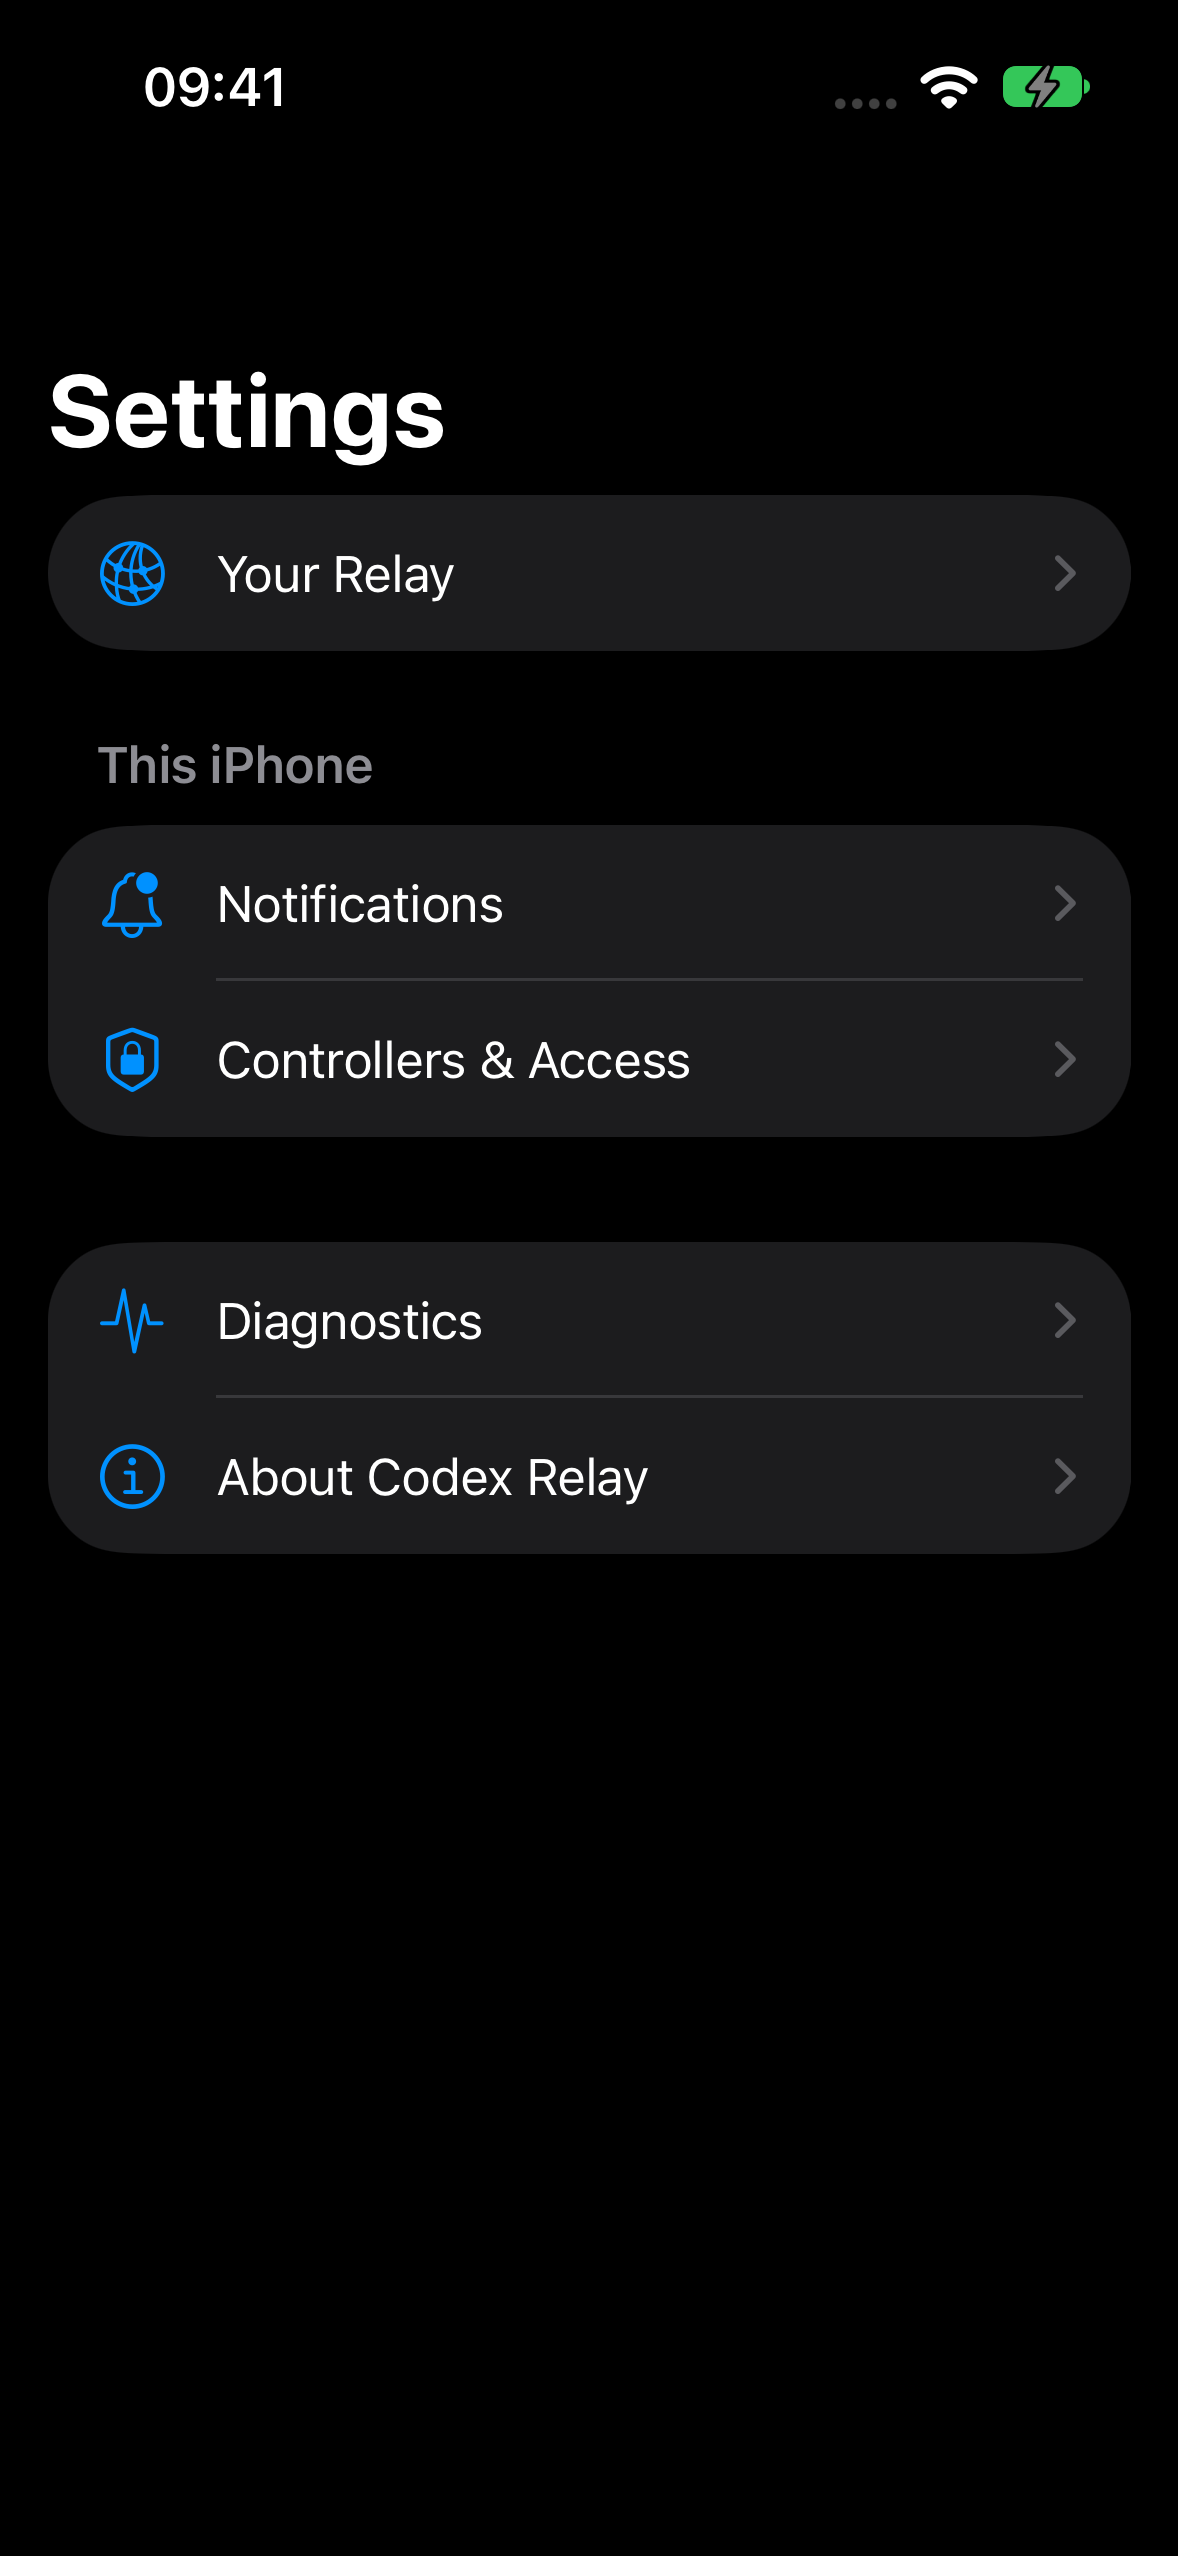
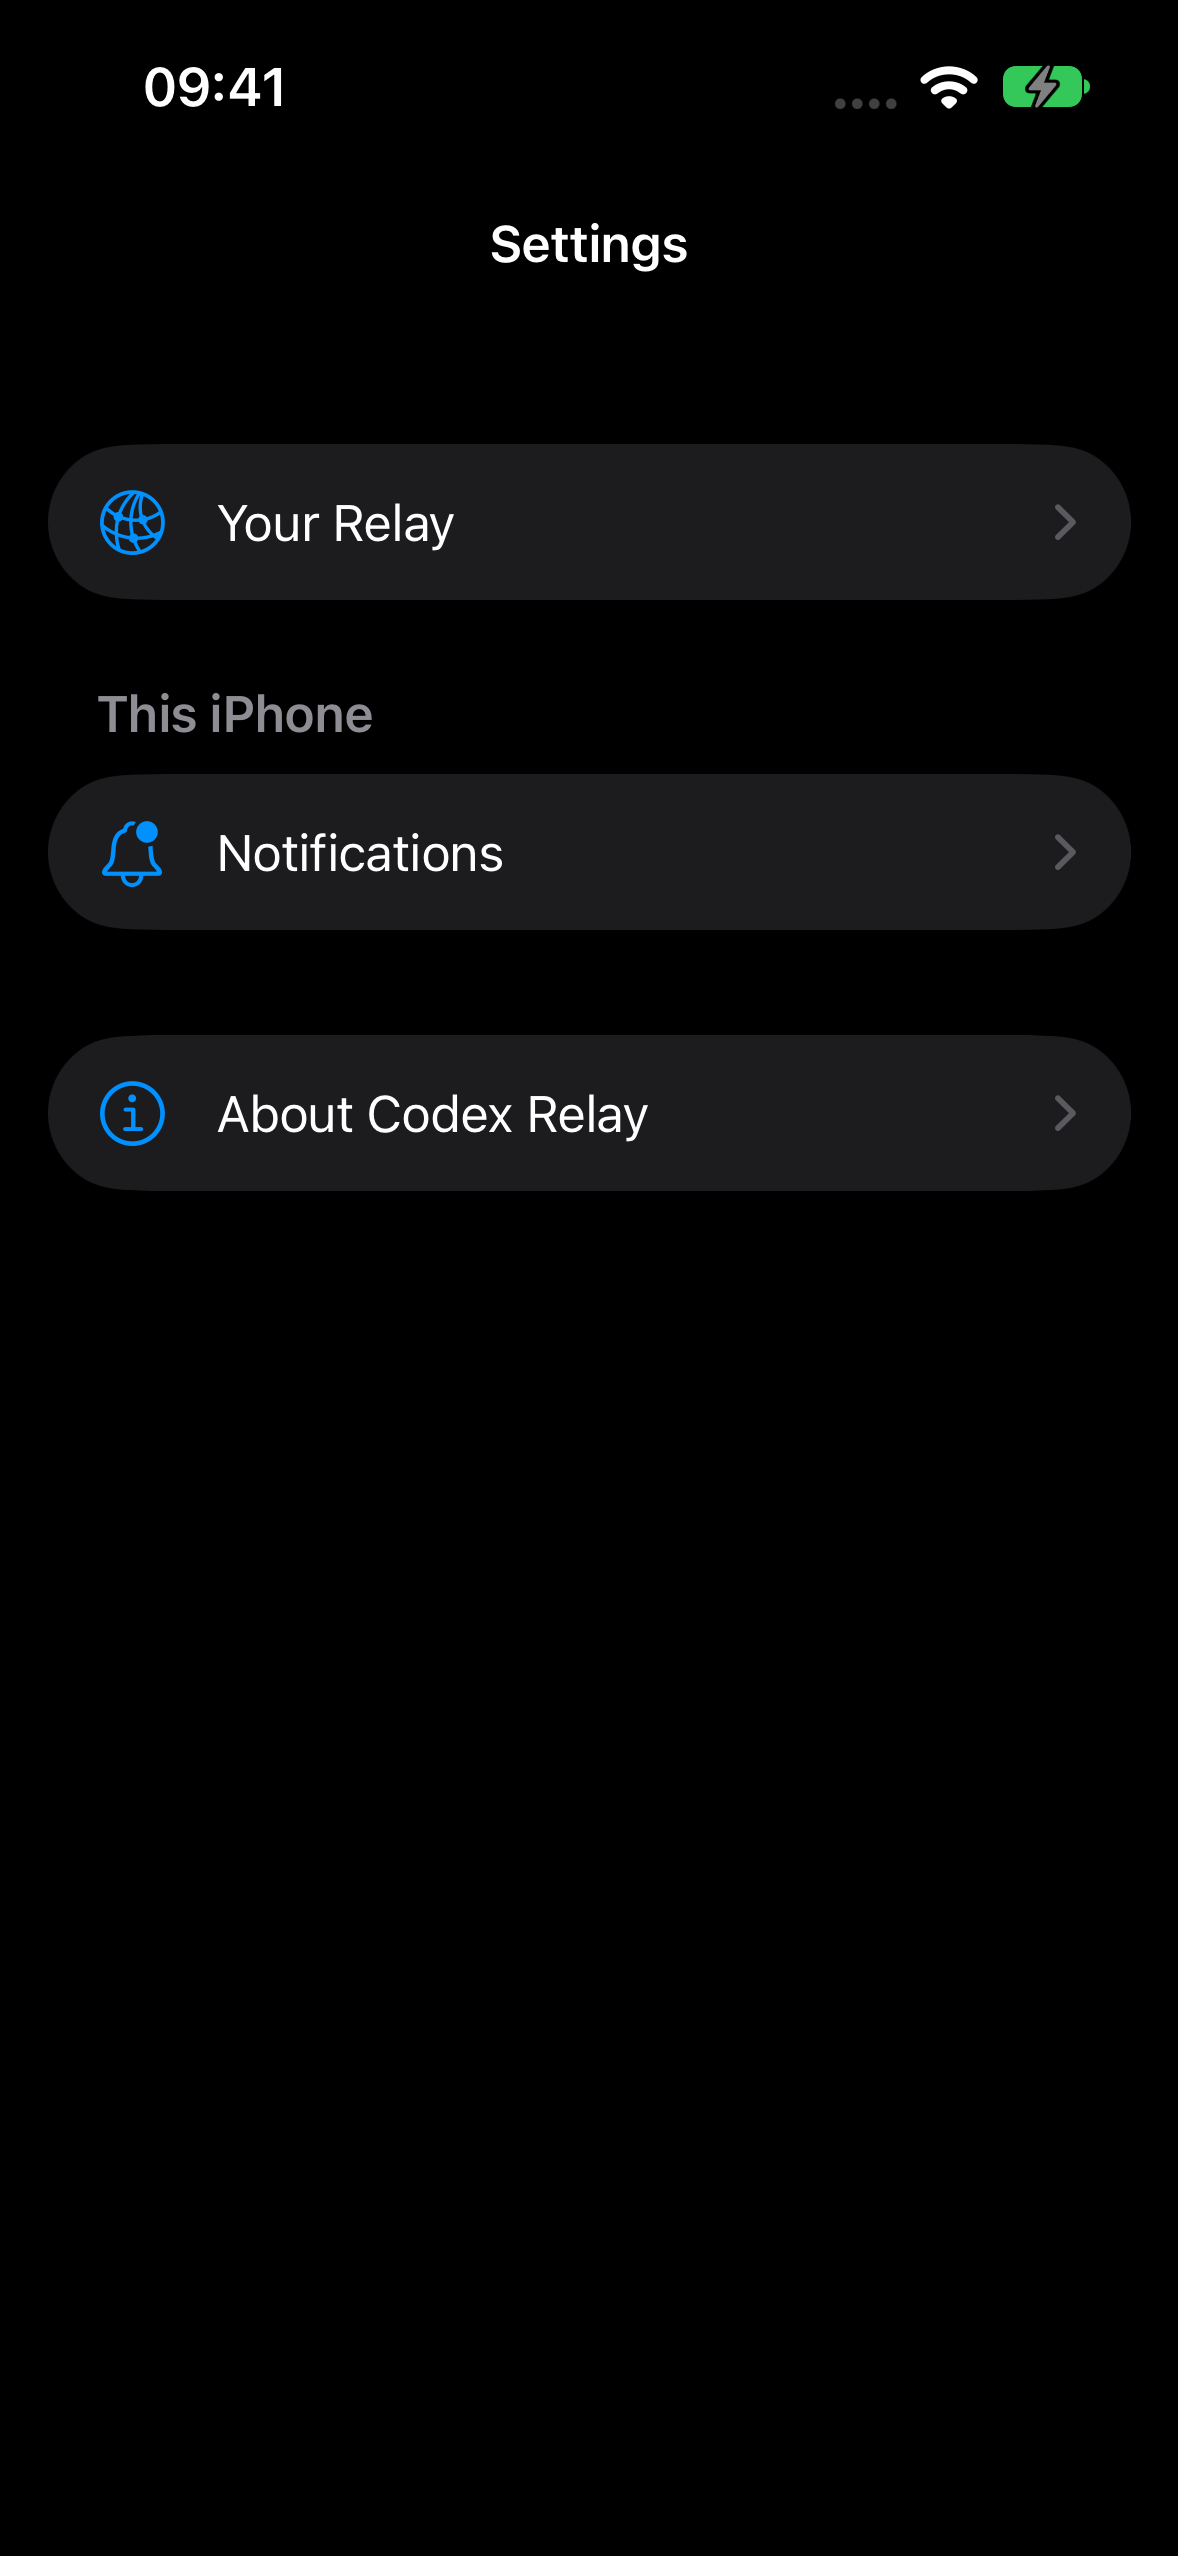
test(native): qualify final product coherence and refresh evidence

Changed region(s): [[0.0306, 0.1236, 0.9779, 0.6182], [0.4278, 0.0927, 0.5806, 0.1236]]

diff --git a/native/iOSUITests/LiveAcceptanceTests.swift b/native/iOSUITests/LiveAcceptanceTests.swift
@@ -64,7 +64,7 @@ import XCTest
         composer.tap(); composer.typeText("Mantieni il testo corrente.")
         XCTAssertTrue(send.isEnabled); XCTAssertTrue(send.isHittable)
         XCTAssertFalse(app.buttons["composer.dismissKeyboard"].exists)
-        app.scrollViews.firstMatch.swipeDown()
+        app.scrollViews["session.transcript"].swipeDown()
         let terminal = app.buttons["tool.terminal.preview-command-0"]
         for _ in 0..<25 {
             if terminal.isHittable { break }
@@ -77,7 +77,7 @@ import XCTest
         let output = app.buttons["activity.output.preview-command-0"]
         reveal(output, in: app)
         if output.value as? String == "Collapsed" { output.tap() }
-        XCTAssertTrue(app.staticTexts["activity.commandExecution.preview-command-0"].waitForExistence(timeout: 5))
+        XCTAssertTrue(app.descendants(matching: .any).matching(identifier: "activity.commandExecution.preview-command-0").firstMatch.waitForExistence(timeout: 5))
         app.buttons["Close"].tap()
         XCTAssertTrue(composer.isHittable)
         XCTAssertEqual(composer.value as? String, "Mantieni il testo corrente.")

diff --git a/docs/development/validation/m2-validation.md b/docs/development/validation/m2-validation.md
@@ -1,14 +1,14 @@
 # M2 productization validation
 
 This dated report preserves initial productization evidence. The final coherence
-pass is recorded below when qualified; [current status](../../status.md) is the
+pass is recorded in the final section below; [current status](../../status.md) is the
 canonical release and compatibility reference.
 
 Validation date: 2026-10-07. M1 remains the reliability baseline in
 [m1-validation.md](m1-validation.md). M2 remains an explicit release candidate:
 physical notification delivery has not passed.
 
-## Product and implementation
+## Initial product and implementation checkpoint
 
 The native root is Fleet / Needs You / Settings. Fleet prioritizes pending work,
 current work and a bounded recent set; an actionable machine summary opens the
@@ -178,3 +178,109 @@ the reference deployment has the explicit `+m2.3` build suffix. The tag workflow
 creates a reviewed draft release with checked artifacts, not automatic final
 publication. At this initial checkpoint, physical/Apple acceptance remained outstanding; this
 is not an implementation failure or a current release-status declaration.
+
+
+## Final product coherence pass — 2026-10-07
+
+Starting main: `7b88f79453cf6d9aedc7be3de43360981e9fc5c1`. This section supersedes
+the initial checkpoint's navigation and physical-launch observations. Reliability
+and the supported-RPC source-of-truth model remain unchanged.
+
+### Entity homes and visual acceptance
+
+The chosen root is **Fleet / Needs You**, with a native Relay administration
+sheet. It was compared with the preceding three-tab layout on iPhone 16.
+Settings contains Hub configuration, notifications and About; it does not repeat
+Machines, Accounts, Controllers or Diagnostics. Accounts link to a filtered
+canonical Machines screen. Global Diagnostics summarizes system health; machine
+measurements belong to Machine → Diagnostics. See the
+[navigation rationale](../../architecture/native-navigation.md).
+
+Fleet is quiet when infrastructure is healthy and shows an actionable exception
+when necessary. Working stays green without changing the application accent.
+The conversation keeps its reader-intent policy and heartbeat, with a compact
+jump-to-latest button. Terminal cards show current/last activity, while execution
+history and output live in detail. Inline pending questions use neutral content
+with restrained warning treatment and avoid repeated machine/project labels.
+
+Fifteen sanitized screenshots were captured using production views and visually
+reviewed: Fleet, conversation, Inbox, inline question, Terminal, tools, diff,
+Machines, Account, Settings, global Diagnostics, machine Diagnostics, Relay menu,
+pairing and [live assistant question](../../assets/app/screenshots/live-question.png).
+Visual iteration corrected a clipped Terminal header, unnecessary zero-count
+metadata, repeated question headings and singular warning copy. Public fixtures
+are visual evidence only; real-Hub acceptance is listed separately below.
+
+### Async questions and account data
+
+Installed Codex remained **0.160.1**. Supported pending RPCs remain canonical;
+historical assistant questions never create pending requests or Inbox entries.
+A bounded live-turn presentation hint preserves observed assistant questions and
+lets an option prepare a draft. It sends no Answer RPC and does not dismiss
+another client's local question. Disconnect, navigation away and turn changes
+clear the hint; transcript content remains readable. No cross-client async
+currentness guarantee is claimed.
+
+The upstream `CreditsSnapshot.balance` is an optional string without a defined
+unit or display precision. Primary UI therefore shows only supported availability
+or unlimited state; exact reported balance is under Data details, explicitly
+without an invented currency/unit. Usage windows retain protocol-defined duration
+and sparse values. Updated time is primary; source-machine provenance is advanced.
+
+### Repository and checks
+
+Apache-2.0 is consistent with the unchanged tracked LICENSE. README is edited as
+a product introduction with five selected screenshots and an expected-result
+Quick Start. The documentation portal is user-oriented. Validation/audit evidence
+moved here with links repaired; [current status](../../status.md) is the single
+release/limitations reference. Public docs were inspected for private origins,
+paths, identifiers and deployment-specific instructions. Reference-deployment
+history remains clearly identified. A local documentation-link check now runs in
+`make check` and CI. No new provider abstraction or Codex RPC leakage was added.
+
+- `make check test checksums` passed: formatting, vet, Go ordinary/race tests,
+  nine web checks, eight installer checks, localization, local links and three
+  Go cross-builds. All generated checksums verified.
+- 52 Swift core/presentation tests passed, including live-question lifetime and
+  history exclusion; historical async-question regression remains green.
+- Simulator build and build-for-testing passed on iPhone 16.
+- Seven read-only real-Hub UI tests passed: Settings/diagnostics, account,
+  historical Inbox exclusion, reading position with keyboard, notification deep
+  links, management surfaces and Fleet/session heartbeat navigation.
+- Behavioral UI tests passed for nonduplicated administrative homes, live-question
+  draft preparation versus static history, composer/Terminal inspection with draft
+  preservation, and Home Screen icon launch. The icon attachment was visually
+  reviewed. The screenshot pipeline passed.
+- Test harness assumptions were updated for the new navigation and explicit
+  transcript scroll target. The real scroll test loads earlier history when the
+  first page is shorter than the viewport, before checking reading-position
+  retention; production scroll policy was preserved.
+- No test controller or validation Codex thread was created in production by this
+  pass. Real workloads were observed only. Existing paired simulator state was
+  restored after isolated screenshot/tests.
+
+### Deployment and external acceptance
+
+The read-only deployment sample found Hub and all three Agents Online on
+`0.1.0-rc.5+m2.3`, database reachable, 403 catalogue sessions, six hot sessions and
+zero pending RPCs. This pass changes native presentation, documentation and a
+sanitized backend test fixture; it requires no Hub/Agent upgrade. Shared Codex
+daemons, service settings, SQLite, enrollment, credentials and networking were
+unchanged. These are current counts from one sample, not workload guarantees.
+
+The newest native build **built, signed, installed and launched** on the existing
+physical iPhone. Enrollment was retained. Current-build owner gesture/Home Screen
+acceptance is still pending and must not be inferred from automated launch.
+
+Both the signed app and Personal Team profile lack `aps-environment`. The Hub
+service has neither APNs configuration nor provider key; no usable key was found
+in the inspected local Relay/private setup locations. The missing material cannot
+be generated from notification permission. The exact external gate is a
+Push-capable Apple team/profile plus an authorized APNs key privately configured
+on the Hub, followed by physical delivery, badge and tap/cold-start acceptance.
+The [notification setup guide](../../setup/notifications.md) documents the existing
+installer-supported path. No key was fabricated or Apple credential changed.
+
+Independent software work is RC-ready. Source stays `0.1.0-rc.5`, reference
+services stay `0.1.0-rc.5+m2.3`; no final release/tag is published. Physical owner
+and Apple/APNs acceptance remain explicit external gates.

diff --git a/docs/development/validation/live-event-audit.md b/docs/development/validation/live-event-audit.md
@@ -22,7 +22,7 @@ Relay does not expose model reasoning.
 | `thread/tokenUsage/updated` | Typed token counters, source and observation time | Session accounting metadata | M2: counters in Session Info |
 | command/file/permissions approval, `item/tool/requestUserInput`, `mcpServer/elicitation/request` | Supported pending RPC mapping; replay pins session | One canonical pending map, metadata persistence, private watched form context | Fleet, Inbox and inline form derive from the same request identity |
 | `serverRequest/resolved` | Removes canonical local pending request once | Removes Hub request and reservation | Removes request across routes |
-| `agentMessage.delivery = async` with `questions` | Preserves visible question content; **not a pending RPC** | Transcript activity only | Readable conversation content; no inferred Inbox entry |
+| `agentMessage.delivery = async` with `questions` | Preserves visible question content; **not a pending RPC** | Transcript activity only | Readable options; current live-turn hint can prepare a composer draft; no inferred Inbox entry |
 | `account/updated`, `account/rateLimits/updated` | Allowlisted typed account event and sparse quota merge | Canonical account metadata / fleet snapshot | M2: derived Account Registry and dynamic usage windows |
 | `account/read`, `account/rateLimits/read` | Read without token refresh; source/freshness metadata | Snapshot account foundation | No Relay-side authentication |
 | reasoning deltas, auth token refresh RPCs | Not forwarded | No reasoning/auth payload | No reasoning/auth payload |

diff --git a/docs/development/native-ios.md b/docs/development/native-ios.md
@@ -54,7 +54,7 @@ Normal launch afterward restores the paired app without clearing Keychain.
 Review every exported image before committing. Source fixtures live in
 `ProductFixtures`; do not publish screenshots from real project work. The pipeline
 covers Fleet, conversation, Needs You, inline question, Terminal, tools, diff,
-Machines, Account, Settings, global and machine Diagnostics, the Relay menu and pairing.
+Machines, Account, Settings, global and machine Diagnostics, the Relay menu, pairing and a live transient assistant question.
 
 The shared vector mark is `docs/assets/app/mark.svg`. Run
 `python3 scripts/branding.py` with librsvg installed to regenerate AppIcon,
